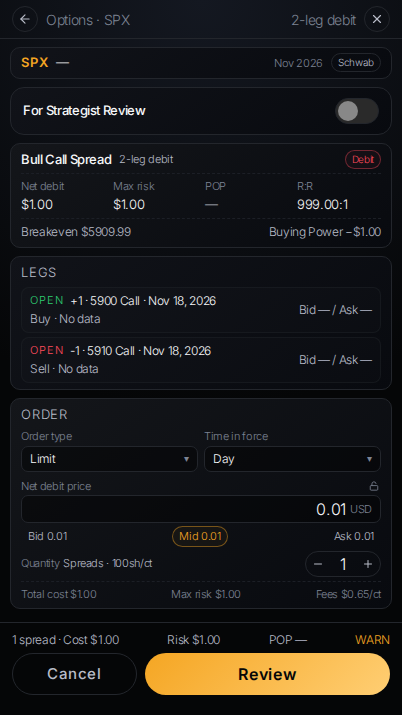
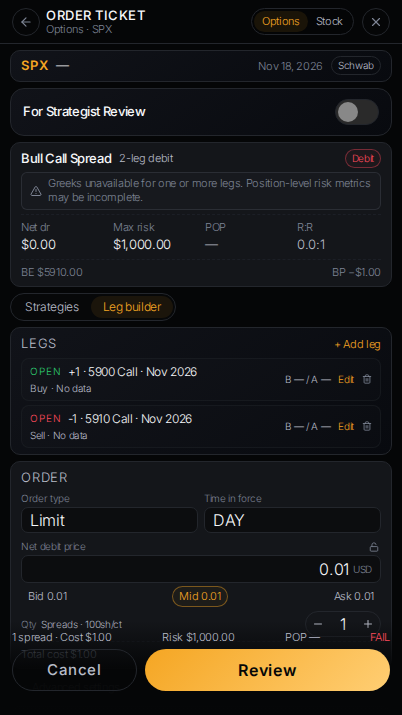
chore(qa): regenerate PR B screenshots via Strategy Builder harness
Route debit-vertical and review through Strategy Builder with before
captures on main UI/math. Align option-fail before/after with limit 3.50
and refresh all before/after PNG pairs (chain dropped).

diff --git a/artifacts/alpha-terminal/e2e/qa-pr-b-screenshots.spec.ts b/artifacts/alpha-terminal/e2e/qa-pr-b-screenshots.spec.ts
@@ -173,13 +173,13 @@ test.describe("QA PR B screenshots", () => {
     await expect(review).toBeVisible({ timeout: 60_000 });
     await mergeOptionTicks(page, [{ key: SPX_ATM_CALL_SYMBOL, bid: 3.8, ask: 3.2, last: 3.5 }]);
     const limitInput = page.getByPlaceholder("0.00").first();
+    await limitInput.fill("3.50");
+    await page.waitForTimeout(800);
     if (variant === "after") {
-      await limitInput.fill("3.50");
-      await page.waitForTimeout(800);
       await expect(page.getByText("Risk: FAIL · blocks order")).toBeVisible({ timeout: 20_000 });
       await expect(review).toBeDisabled();
-      await expect(limitInput).toHaveValue("3.50");
     }
+    await expect(limitInput).toHaveValue("3.50");
     await capturePair(page, "option-fail-review");
   });
 });

diff --git a/docs/qa-pr-b/README.md b/docs/qa-pr-b/README.md
@@ -7,7 +7,9 @@ pnpm --filter @workspace/alpha-terminal run test:e2e:qa-screenshots:before
 QA_SNAPSHOT_VARIANT=after pnpm --filter @workspace/alpha-terminal run test:e2e:qa-screenshots
 ```
 
-Pairs that were **byte-identical** between before and after were dropped (including chain — no visible delta vs main in this harness).
+Pairs that were **byte-identical** between before and after were dropped (chain removed).
+
+Harness **debit-vertical** and **review** use Strategy Builder (before script swaps `StrategyBuilder.tsx` and `lib/order-ticket-math` to `main`).
 
 | Pair prefix | Proves (after vs before) |
 |-------------|---------------------------|
